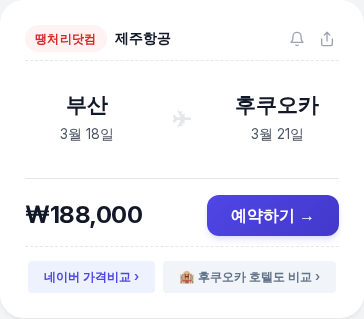
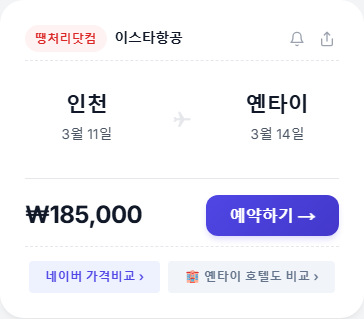
content: 3/6 땡처리 블로그 포스트 + 규칙 업데이트
- blog-post-260306.html: Top5 + 인천 3개 + 썸네일 2종
- generate-blog.js: 인천 섹션 3개 규칙 (1개 겹침 + 2개 비중복)
- generate-blog.js: 중국 1박2일 팁 수정
- blog-edit.md: 인천 섹션 규칙, 출처 표기 규칙 추가

diff --git a/public/blog-post-260306.html b/public/blog-post-260306.html
@@ -4,7 +4,7 @@
 <head>
     <meta charset="UTF-8">
     <meta name="viewport" content="width=device-width, initial-scale=1.0">
-    <title>[3월 6일] 땡처리 항공권 특가 TOP 5 | 칭다오 14만원, 제남 17만원 ✈</title>
+    <title>[3월 6일] 땡처리 항공권 특가 TOP 5 | 칭다오 14만원, 푸켓 17만원 ✈</title>
     <style>
         * {
             margin: 0;
@@ -102,10 +102,19 @@
 
     <div class="post">
 
-        <h1 style="text-align: center; font-size: 22px; font-weight: 800; color: #1a1a1a; margin: 16px 0 24px; line-height: 1.5;">[3월 6일] 땡처리 항공권 특가 TOP 5 | 칭다오 14만원, 제남 17만원 ✈</h1>
+        <p><img src="thumbnail-260306-wide.png" alt="[3/6] 땡처리 항공권 특가 Top 5 - 와이드"
+                style="max-width: 100%; border-radius: 12px; box-shadow: 0 2px 8px rgba(0,0,0,0.1);"></p>
+        <p>&nbsp;</p>
+        <p><img src="thumbnail-260306-square.png" alt="[3/6] 땡처리 항공권 특가 Top 5 - 정사각형"
+                style="max-width: 100%; border-radius: 12px; box-shadow: 0 2px 8px rgba(0,0,0,0.1);"></p>
+        <p>&nbsp;</p>
+
+        <h1
+            style="text-align: center; font-size: 22px; font-weight: 800; color: #1a1a1a; margin: 16px 0 24px; line-height: 1.5;">
+            [3월 6일] 땡처리 항공권 특가 TOP 5 | 칭다오 14만원, 푸켓 17만원 ✈</h1>
 
         <p>&nbsp;</p>
-<p>벚꽃 시즌이 다가오고 있네요 🌸</p>
+        <p>벚꽃 시즌이 다가오고 있네요 🌸</p>
         <p>일본 쪽 특가가 많이 풀리는 시기라</p>
         <p>눈여겨볼 만한 것들이 있어요.</p>
 
@@ -119,69 +128,80 @@
         <p>에어로케이 · 3/15(일)~3/17(화) · 2박 3일</p>
         <p style="font-size: 20px; font-weight: 800; color: #e53e3e;"><b>143,000원</b></p>
         <p>&nbsp;</p>
-        <p><img src="blog-cards/rank_1.png" alt="청주-청도(칭다오) 항공권" style="max-width: 100%; border-radius: 12px; box-shadow: 0 2px 8px rgba(0,0,0,0.1);"></p>
+        <p><img src="blog-cards/rank_1.png" alt="청주-청도(칭다오) 항공권"
+                style="max-width: 100%; border-radius: 12px; box-shadow: 0 2px 8px rgba(0,0,0,0.1);"></p>
         <p>&nbsp;</p>
-        <p>해변 따라 독일풍 건물 산책 🍺</p>
+        <p>바다 앞 노천 맥주집에서 건배 🍻</p>
 
         <p>&nbsp;</p>
         <p>🥈 2위</p>
+        <p><b>서울 ↔ 푸켓 (동남아)</b></p>
+        <p>아시아나항공 · 3/8(일)~3/11(수) · 3박 4일</p>
+        <p style="font-size: 20px; font-weight: 800; "><b>179,000원</b></p>
+        <p>&nbsp;</p>
+        <p><img src="blog-cards/rank_2.png" alt="서울-푸켓 항공권"
+                style="max-width: 100%; border-radius: 12px; box-shadow: 0 2px 8px rgba(0,0,0,0.1);"></p>
+        <p>&nbsp;</p>
+        <p>파통 비치에서 마사지 받고, 빠뚱 야시장에서 팟타이 한 접시 🍜</p>
+
+        <p>&nbsp;</p>
+        <p>🥉 3위</p>
         <p><b>서울 ↔ 제남(지난)</b></p>
         <p>에어로케이 · 4/4(토)~4/7(화) · 3박 4일</p>
         <p style="font-size: 20px; font-weight: 800; "><b>179,000원</b></p>
         <p>&nbsp;</p>
-        <p><img src="blog-cards/rank_2.png" alt="서울-제남(지난) 항공권" style="max-width: 100%; border-radius: 12px; box-shadow: 0 2px 8px rgba(0,0,0,0.1);"></p>
+        <p><img src="blog-cards/rank_3.png" alt="서울-제남(지난) 항공권"
+                style="max-width: 100%; border-radius: 12px; box-shadow: 0 2px 8px rgba(0,0,0,0.1);"></p>
+        <p>&nbsp;</p>
+        <p>바오투취안 샘물 공원과 산동 요리 탐방 🍲</p>
 
         <p>&nbsp;</p>
-        <p>🥉 3위</p>
+        <p>4위</p>
         <p><b>부산 ↔ 다카마쓰 (일본)</b></p>
         <p>에어부산 · 4/14(화)~4/17(금) · 3박 4일</p>
         <p style="font-size: 20px; font-weight: 800; "><b>182,500원</b></p>
         <p>&nbsp;</p>
-        <p><img src="blog-cards/rank_3.png" alt="부산-다카마쓰 항공권" style="max-width: 100%; border-radius: 12px; box-shadow: 0 2px 8px rgba(0,0,0,0.1);"></p>
+        <p><img src="blog-cards/rank_4.png" alt="부산-다카마쓰 항공권"
+                style="max-width: 100%; border-radius: 12px; box-shadow: 0 2px 8px rgba(0,0,0,0.1);"></p>
         <p>&nbsp;</p>
-        <p>🌸 3월 말~4월 초 리쓰린 공원 벚꽃이 압권!</p>
-        <p>사누키 우동 + 벚꽃 산책, 소도시 힐링 🌸</p>
+        <p>리쓰린 공원 산책하고 본고장 우동 한 그릇에 3,000원 🍜</p>
 
         <p>&nbsp;</p>
-        <p>4위</p>
+        <p>5위</p>
         <p><b>서울 ↔ 연태(옌타이)</b></p>
         <p>이스타항공 · 3/11(수)~3/14(토) · 3박 4일</p>
         <p style="font-size: 20px; font-weight: 800; "><b>185,000원</b></p>
         <p>&nbsp;</p>
-        <p><img src="blog-cards/rank_4.png" alt="서울-연태(옌타이) 항공권" style="max-width: 100%; border-radius: 12px; box-shadow: 0 2px 8px rgba(0,0,0,0.1);"></p>
-
+        <p><img src="blog-cards/rank_5.png" alt="서울-연태(옌타이) 항공권"
+                style="max-width: 100%; border-radius: 12px; box-shadow: 0 2px 8px rgba(0,0,0,0.1);"></p>
         <p>&nbsp;</p>
-        <p>5위</p>
-        <p><b>부산 ↔ 후쿠오카 (일본)</b></p>
-        <p>제주항공 · 3/18(수)~3/21(토) · 3박 4일</p>
-        <p style="font-size: 20px; font-weight: 800; "><b>188,000원</b></p>
-        <p>&nbsp;</p>
-        <p><img src="blog-cards/rank_5.png" alt="부산-후쿠오카 항공권" style="max-width: 100%; border-radius: 12px; box-shadow: 0 2px 8px rgba(0,0,0,0.1);"></p>
-        <p>&nbsp;</p>
-        <p>캐널시티에서 쇼핑하고 🛍</p>
+        <p>펜라이각 신선 이야기의 무대, 해안 산책로가 예쁜 도시 🌅</p>
 
         <p>&nbsp;</p>
         <p style="font-size: 13px; color: #888;">※ 유류할증료/텍스 포함 왕복 총액 기준</p>
         <p style="font-size: 13px; color: #e53e3e; font-weight: bold;">※ 좌석이 빠지면 가격이 바뀌거나 사라질 수 있어요.</p>
-        <p style="font-size: 13px; color: #999; margin-top: 8px;">*가격 데이터 출처: <a href="https://tikitikit.kr" style="color: #999;">티키티킷(tikitikit.kr)</a></p>
+
 
         <hr class="divider">
 
-        <p class="section-title">💡 에디터 픽 : 4위 서울-연태(옌타이)</p>
+        <p class="section-title">💡 에디터 픽 : 4위 부산-다카마쓰</p>
 
-            <p>&nbsp;</p>
-            <p><b>서울-연태(옌타이) 왕복 185,000원!</b></p>
-            <p>&nbsp;</p>
-            <p>이스타항공 직항으로</p>
-            <p>3박 4일 알찬 일정입니다.</p>
-            <p>&nbsp;</p>
-            <p>왕복 <b>18만5,000원</b>이면</p>
-            <p>KTX 왕복보다 싼 해외여행이에요.</p>
-            <p>&nbsp;</p>
-            <p>다양한 일정이 열려 있으니</p>
-            <p>마음에 드는 날짜를 골라보세요!</p>
-            <p>&nbsp;</p>
-            <p style="font-size: 14px; color: #999;">👉 다른 날짜도 궁금하다면 <a href="https://tikitikit.kr" style="color: #4f46e5;">tikitikit.kr</a>에서 확인해보세요.</p>
+        <p>&nbsp;</p>
+        <p><b>부산-다카마쓰 왕복 182,500원!</b></p>
+        <p>&nbsp;</p>
+        <p>에어부산 직항으로</p>
+        <p>3박 4일 알찬 일정입니다.</p>
+        <p>&nbsp;</p>
+        <p>리쓰린 공원에서 일본 정원의 진수를 🍡</p>
+        <p>사누키 우동의 본고장, 한 그릇에 감동!</p>
+        <p>&nbsp;</p>
+        <p>왕복 <b>18만2,500원</b>에 이 정도면</p>
+        <p>숨겨진 일본 소도시 여행의 매력.</p>
+        <p>&nbsp;</p>
+        <p>다양한 일정이 열려 있으니</p>
+        <p>마음에 드는 날짜를 골라보세요!</p>
+        <p>&nbsp;</p>
+
 
         <hr class="divider">
 
@@ -189,37 +209,28 @@
 
         <p>&nbsp;</p>
         <p>이번 인천 출발 최저가 라인업!</p>
-        <p style="font-size: 13px; color: #999;">(<a href="https://tikitikit.kr" style="color: #999;">tikitikit.kr</a> 기준 실시간 최저가)</p>
+
 
         <p>&nbsp;</p>
-        <p><img src="blog-cards/rank_2.png" alt="인천-제남(지난) 항공권" style="max-width: 100%; border-radius: 12px; box-shadow: 0 2px 8px rgba(0,0,0,0.1);"></p>
+        <p><img src="blog-cards/rank_2.png" alt="인천-푸켓 항공권"
+                style="max-width: 100%; border-radius: 12px; box-shadow: 0 2px 8px rgba(0,0,0,0.1);"></p>
         <p>&nbsp;</p>
-        <p>✈ <b>제남(지난) 179,000원</b> (에어로케이)</p>
-        <p>4/4~4/7 · 3박 4일 가성비 여행!</p>
+        <p>✈ <b>푸켓 179,000원</b> (아시아나항공)</p>
+        <p>3/8~3/11 · 3박 4일 가성비 여행!</p>
 
         <p>&nbsp;</p>
-        <p><img src="blog-cards/rank_4.png" alt="인천-연태(옌타이) 항공권" style="max-width: 100%; border-radius: 12px; box-shadow: 0 2px 8px rgba(0,0,0,0.1);"></p>
-        <p>&nbsp;</p>
-        <p>✈ <b>연태(옌타이) 185,000원</b> (이스타항공)</p>
-        <p>3/11~3/14 · 3박 4일 가성비 여행!</p>
-
-        <p>&nbsp;</p>
-        <p><img src="blog-cards/icn_1.png" alt="인천-괌 항공권" style="max-width: 100%; border-radius: 12px; box-shadow: 0 2px 8px rgba(0,0,0,0.1);"></p>
+        <p><img src="blog-cards/icn_1.png" alt="인천-괌 항공권"
+                style="max-width: 100%; border-radius: 12px; box-shadow: 0 2px 8px rgba(0,0,0,0.1);"></p>
         <p>&nbsp;</p>
         <p>✈ <b>괌 199,000원</b> (진에어)</p>
         <p>3/28~4/1 · 4박 5일 비치 리조트 꿀조합!</p>
 
         <p>&nbsp;</p>
-        <p><img src="blog-cards/icn_2.png" alt="인천-사이판(SPN) 항공권" style="max-width: 100%; border-radius: 12px; box-shadow: 0 2px 8px rgba(0,0,0,0.1);"></p>
+        <p><img src="blog-cards/icn_2.png" alt="인천-사이판(SPN) 항공권"
+                style="max-width: 100%; border-radius: 12px; box-shadow: 0 2px 8px rgba(0,0,0,0.1);"></p>
         <p>&nbsp;</p>
         <p>✈ <b>사이판(SPN) 199,000원</b> (제주항공)</p>
-        <p>3/9~3/12 · 3박 4일 투명 바다 힐링 여행!</p>
-
-        <p>&nbsp;</p>
-        <p><img src="blog-cards/icn_3.png" alt="인천-푸켓 항공권" style="max-width: 100%; border-radius: 12px; box-shadow: 0 2px 8px rgba(0,0,0,0.1);"></p>
-        <p>&nbsp;</p>
-        <p>✈ <b>푸켓 199,000원</b> (아시아나항공)</p>
-        <p>3/8~3/11 · 3박 4일 가성비 여행!</p>
+        <p>3/10~3/13 · 3박 4일 투명 바다 힐링 여행!</p>
 
         <hr class="divider">
 
@@ -227,8 +238,8 @@
             <p><b>✨ 이번 주 항공권 꿀팁</b></p>
             <p>&nbsp;</p>
             <p>🌸 벚꽃 시즌 꿀팁: 만개일 기준 1~2일 전에 도착하면 벚꽃 + 인파 피하기 둘 다 가능해요.</p>
-            <p>🇨🇳 중국 여행 TIP: 칭다오·상하이 등은 3~5월이 여행 적기! 날씨도 좋고 성수기 전이라 저렴합니다.</p>
-            <p>✈ 지방 출발 TIP: 주변 공항에서 출발하면 공항 이동 시간만 2~3시간 세이브됩니다.</p>
+            <p>🏖 동남아 땡처리 꿀팁: 주중 출발이 주말보다 평균 3~5만원 저렴합니다.</p>
+            <p>🇨🇳 중국 여행 TIP: 칭다오·지난 등은 3~5월이 여행 적기! 날씨도 좋고 성수기 전이라 저렴합니다.</p>
         </div>
 
         <hr class="divider">
@@ -242,7 +253,8 @@
         <p>&nbsp;</p>
         <p><a href="https://tikitikit.kr" class="cta-link">tikitikit.kr</a></p>
 
-        <p class="note">#땡처리항공권 #특가항공권 #항공권싸게사는법 #항공권최저가 #해외여행꿀팁 #티키티킷 #3월항공권 #3월해외여행 #칭다오여행 #제남여행 #다카마쓰여행 #연태여행 #후쿠오카여행</p>
+        <p class="note">#땡처리항공권 #특가항공권 #항공권싸게사는법 #항공권최저가 #해외여행꿀팁 #티키티킷 #3월항공권 #3월해외여행 #칭다오여행 #푸켓여행 #제남여행 #다카마쓰여행 #연태여행
+        </p>
 
     </div>
 </body>

diff --git a/scripts/generate-blog.js b/scripts/generate-blog.js
@@ -230,7 +230,7 @@ const TIP_POOLS = {
     // 조건: 중국 노선이 있을 때
     china: [
         '🇨🇳 중국 여행 TIP: 칭다오·상하이 등은 3~5월이 여행 적기! 날씨도 좋고 성수기 전이라 저렴합니다.',
-        '🇨🇳 중국 단거리 꿀팁: 비행 2시간 이내, 1박 2일도 가능한 가성비 목적지입니다.',
+        '🇨🇳 중국 단거리 꿀팁: 비행 2시간 이내, 물가도 저렴해서 현지 맛집 투어하기 딱 좋은 목적지입니다.',
     ],
     // 조건: 지방 출발이 있을 때
     regional: [
@@ -329,9 +329,11 @@ async function main() {
 
     // 인천 출발 중 Top 5에 포함되지 않은 것도 따로 수집
     const icnInTop5 = topFlights.filter(f => normalizeCity(f.departure?.city) === '인천');
-    // 인천 출발 중 Top 5에 포함 안 된 추가 항공편 (최대 3개 더)
-    const icnExtra = getExtraIncheonFlights(flights, topFlights, 3);
-    const allIcnFlights = [...icnInTop5, ...icnExtra];
+    // 인천 출발 섹션: 총 3개 (Top 5 중 인천 1개 + 비중복 2개)
+    const ICN_SECTION_TOTAL = 3;
+    const ICN_EXTRA_COUNT = 2; // Top 5와 겹치지 않는 인천 출발 항공편
+    const icnExtra = getExtraIncheonFlights(flights, topFlights, ICN_EXTRA_COUNT);
+    const allIcnFlights = [...icnInTop5.slice(0, 1), ...icnExtra].slice(0, ICN_SECTION_TOTAL);
 
     const allScreenshotFlights = [...topFlights, ...icnExtra];
     await captureCardScreenshots(allScreenshotFlights, topFlights.length);

diff --git a/public/blog-thumbnail-template.html b/public/blog-thumbnail-template.html
@@ -36,15 +36,15 @@
         }
 
         .panel-1 {
-            background-image: url('https://images.unsplash.com/photo-1545569341-9eb8b30979d9?w=600');
+            background-image: url('https://images.unsplash.com/photo-1569396116180-210c182bedb8?w=600');
         }
 
         .panel-2 {
-            background-image: url('https://images.unsplash.com/photo-1551218808-94e220e084d2?w=600');
+            background-image: url('https://images.unsplash.com/photo-1589394815804-964ed0be2eb5?w=600');
         }
 
         .panel-3 {
-            background-image: url('https://images.unsplash.com/photo-1552465011-b4e21bf6e79a?w=600');
+            background-image: url('https://images.unsplash.com/photo-1528360983277-13d401cdc186?w=600');
         }
 
         .text-overlay {
@@ -101,8 +101,8 @@
             <div class="panel panel-3"></div>
         </div>
         <div class="text-overlay">
-            <div class="line1">[2/27] 땡처리 항공권 특가 Top 5 🔥</div>
-            <div class="line2">다카마쓰 왕복 18만원대 ✈</div>
+            <div class="line1">[3/6] 땡처리 항공권 특가 Top 5 🔥</div>
+            <div class="line2">칭다오 왕복 14만원대 ✈</div>
             <div class="site-badge">티키티킷 tikitikit.kr</div>
         </div>
     </div>

diff --git a/.agent/workflows/blog-edit.md b/.agent/workflows/blog-edit.md
@@ -67,6 +67,12 @@ node -e "const {chromium}=require('playwright'); (async()=>{const browser=await 
 | 에디터 추천 | `generateEditorPick()` 함수 |
 | 해시태그 | `generateBlogHTML()` 하단 |
 
+### 인천 출발 섹션 규칙
+
+- **총 3개만** 표시
+- Top 5에 포함된 인천 출발 **1개** + Top 5에 없는 비중복 **2개**
+- Top 5와 같은 도착지가 겹치지 않도록 선별
+
 ### 수정 후 확인
 
 // turbo
@@ -97,8 +103,9 @@ node -e "const {chromium}=require('playwright'); (async()=>{const browser=await 
 - **"5곳" 같은 구체적 숫자 쓰지 않음** — "여러 여행사"로 표현
 
 ### 허용되는 노출 방식
-- **글 하단에 데이터 출처 1줄만**: `*가격 데이터 출처: 티키티킷(tikitikit.kr)` (13px, #999)
-- 본문 중간에 "tikitikit.kr" 텍스트 언급은 가능하나 **클릭 가능한 링크는 금지**
+- **글 마지막 CTA 링크 1개만**: `tikitikit.kr` (클릭 가능)
+- **본문 중간에 tikitikit.kr 출처 표기 금지** — "가격 데이터 출처: 티키티킷" 같은 문구도 넣지 않음
+- 본문 중간에 텍스트로 언급은 가능하나 **클릭 가능한 링크는 금지**
 
 ### 마무리 스타일
 - 자연스러운 마무리 문장 (예: "좋은 여행 되세요 ✈")
